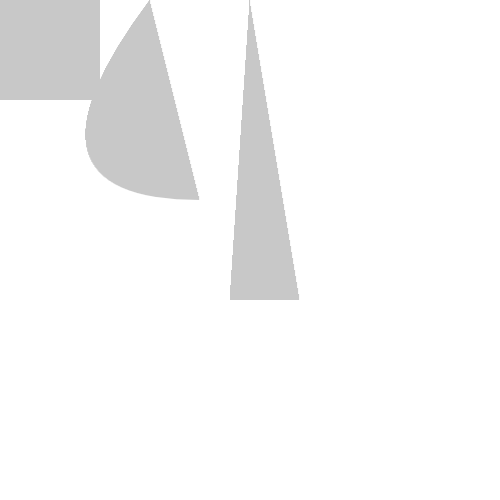
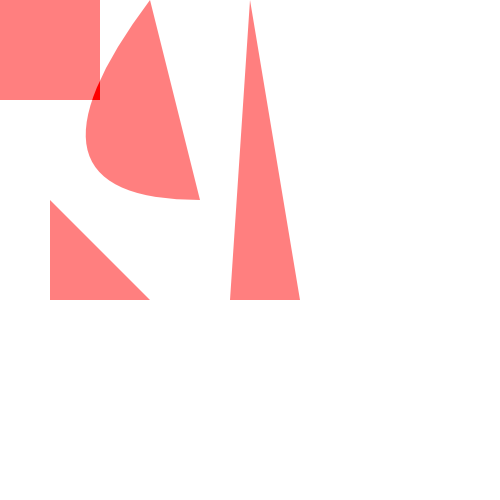
correct interval openness

Changed region(s): [[0.0, 0.0, 0.42, 0.42], [0.45, 0.0, 0.6, 0.6], [0.09, 0.39, 0.3, 0.6]]

diff --git a/src/raster.rs b/src/raster.rs
@@ -7,16 +7,6 @@ use crate::path::{Line, Path};
 pub fn raster_scanline(path: &Path, image: &mut RgbaImage) {
     let lines = path.break_into_lines();
 
-    // very stupid way to stroke a path
-    // for line in &lines {
-    //     for i in 0..200 {
-    //         let t = f64::from(i) / 200.0;
-    //         let point = line.sample(t as f32);
-    //         let pixel = image.get_pixel_mut(point.x as u32, point.y as u32);
-    //         *pixel = image::Rgba([255, 0, 0, 255]);
-    //     }
-    // }
-
     let mut lines_by_start_y: HashMap<u32, HashSet<usize>> = HashMap::new();
     let mut lines_by_end_y: HashMap<u32, HashSet<usize>> = HashMap::new();
 
@@ -57,6 +47,29 @@ pub fn raster_scanline(path: &Path, image: &mut RgbaImage) {
             // println!("active_segments = {active_segments:.?}");
         }
 
+        for line_index in &active_segments {
+            // clip it to y-strip
+            let Some(line) = lines[*line_index].clip_y(y, y + 1) else {
+                continue;
+            };
+
+            let (x_start, x_end) = line.x_bounds();
+            // println!("line = {line:.?}");
+
+            for x in x_start..=x_end {
+                let Some(line) = line.clip_x(x, x + 1) else {
+                    continue;
+                };
+
+                let dy = line.1.y - line.0.y;
+                let xmid = (line.0.x + line.1.x) / 2.0 - x as f32;
+
+                let x = x as usize;
+                covarage_table[x] += dy;
+                fill_table[x] += dy * (1.0 - xmid); // trapezoid, see image.png, or https://www.youtube.com/watch?v=B9bztU1sTFA
+            }
+        }
+
         // remove shit from active segment list
         if let Some(lines) = lines_by_end_y.get(&y) {
             let mut indices: Vec<usize> = vec![];
@@ -71,49 +84,13 @@ pub fn raster_scanline(path: &Path, image: &mut RgbaImage) {
             }
         }
 
-        // compute coverage
-        // for x in 0..image.width() {
-        //     // box is x..x+1 y..y+1
-        // }
-
-        for line_index in &active_segments {
-            // clip it to y-strip
-            let Some(line) = lines[*line_index].clip_y(y, y + 1) else {
-                continue;
-            };
-
-            let (x_start, x_end) = line.x_bounds();
-            // println!("line = {line:.?}");
-
-            for x in x_start..=x_end {
-                let Some(line) = line.clip_x(x, x + 1) else {
-                    continue;
-                };
-                let x = x as usize;
-
-                let dy = line.1.y - line.0.y;
-                let xmid = (line.0.x + line.1.x) / 2.0 - line.0.x;
-
-                covarage_table[x] += dy;
-                fill_table[x] += dy * (1.0 - xmid); // trapezoid, see image.png, or https://www.youtube.com/watch?v=B9bztU1sTFA
-            }
-        }
-
-        if y == 120 {
-            println!("covarage_table = {covarage_table:.?}");
-        }
-
         // resolve pass
         let mut acc: f32 = 0.0;
         for x in 0..image.width() {
             let actual_coverage = acc + fill_table[x as usize];
 
             let pixel = image.get_pixel_mut(x, y);
-            shitty_blend(
-                &[200, 200, 200, 255],
-                &mut pixel.0,
-                actual_coverage.abs().min(1.0),
-            );
+            shitty_blend(&[255, 0, 0, 255], &mut pixel.0, actual_coverage / 2.0);
 
             acc += covarage_table[x as usize];
         }

diff --git a/src/main.rs b/src/main.rs
@@ -15,6 +15,8 @@ fn main() {
 
     let mut path = Path::new();
 
+    // counter clockwise
+
     path.move_to(point(0.0, 0.0))
         .line_to(point(0.0, 100.0))
         .line_to(point(100.0, 100.0))
@@ -26,8 +28,13 @@ fn main() {
         .close();
 
     path.move_to(point(250.0, 0.0))
-        .line_to(point(300.0, 300.0))
         .line_to(point(230.0, 300.0))
+        .line_to(point(300.0, 300.0))
+        .close();
+
+    path.move_to(point(50.0, 200.0))
+        .line_to(point(50.0, 300.0))
+        .line_to(point(150.0, 300.0))
         .close();
 
     raster_scanline(&path, &mut img);

diff --git a/src/path.rs b/src/path.rs
@@ -251,17 +251,18 @@ impl Line {
 
     pub fn y_bounds(&self) -> (u32, u32) {
         if self.0.y < self.1.y {
-            (self.0.y.floor() as u32, self.1.y.ceil() as u32)
+            (self.0.y.floor() as u32, self.1.y.floor() as u32)
         } else {
-            (self.1.y.floor() as u32, self.0.y.ceil() as u32)
+            (self.1.y.floor() as u32, self.0.y.floor() as u32)
         }
     }
 
+    // cell bounds, so its floor
     pub fn x_bounds(&self) -> (u32, u32) {
         if self.0.x < self.1.x {
-            (self.0.x.floor() as u32, self.1.x.ceil() as u32)
+            (self.0.x.floor() as u32, self.1.x.floor() as u32)
         } else {
-            (self.1.x.floor() as u32, self.0.x.ceil() as u32)
+            (self.1.x.floor() as u32, self.0.x.floor() as u32)
         }
     }
 